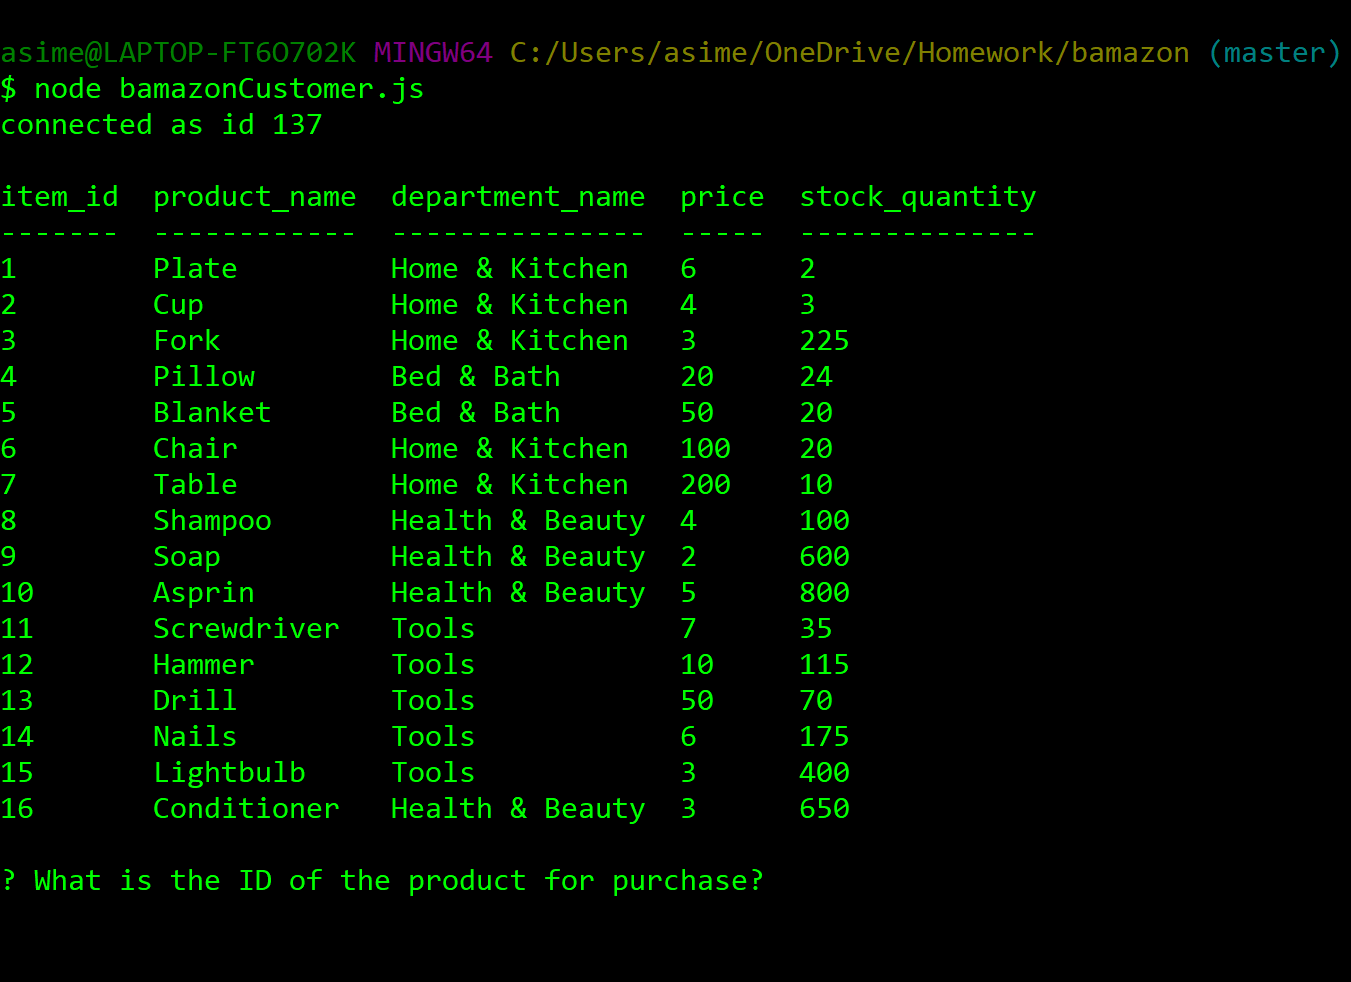
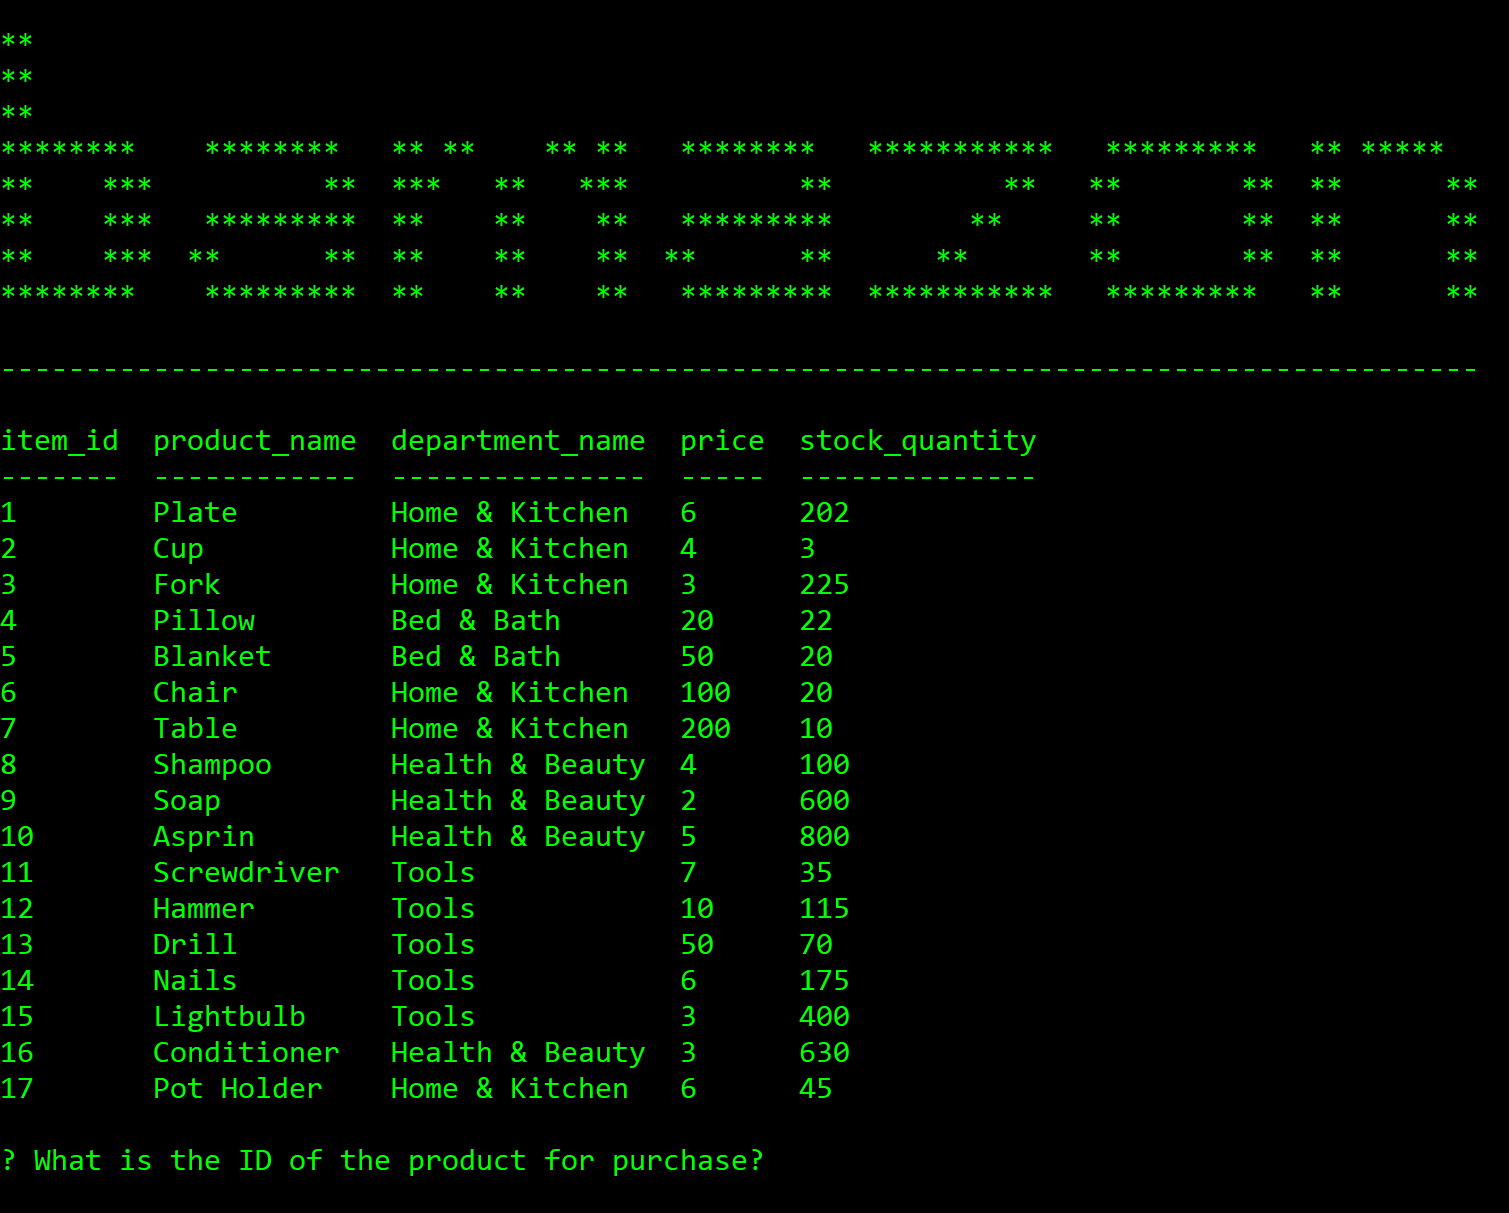
markdown

diff --git a/bamazonCustomer.js b/bamazonCustomer.js
@@ -16,10 +16,31 @@ connection.connect(function(error) {
     catalog();
 });
 
+// console.log("**                                                                                      ");
+// console.log("**                                                                                      ");
+// console.log("**                                                                                      ");
+// console.log("********    ********   ** **    ** **   ********   ***********   *********   ** *****   ");
+// console.log("**    ***          **  ***   **   ***          **          **   **       **  **      ** ");
+// console.log("**    ***   *********  **    **    **   *********        **     **       **  **      ** ");
+// console.log("**    ***  **      **  **    **    **  **      **      **       **       **  **      ** ");
+// console.log("********    *********  **    **    **   *********  ***********   *********   **      ** ");
+
+
+
+
 //First display all of the items for sale
 function catalog() {
     connection.query("SELECT * FROM products", function(error, results) {
         if (error) throw error;
+        console.log("**                                                                                      ");
+        console.log("**                                                                                      ");
+        console.log("**                                                                                      ");
+        console.log("********    ********   ** **    ** **   ********   ***********   *********   ** *****   ");
+        console.log("**    ***          **  ***   **   ***          **          **   **       **  **      ** ");
+        console.log("**    ***   *********  **    **    **   *********        **     **       **  **      ** ");
+        console.log("**    ***  **      **  **    **    **  **      **      **       **       **  **      ** ");
+        console.log("********    *********  **    **    **   *********  ***********   *********   **      **\n");
+        console.log("---------------------------------------------------------------------------------------\n")
         console.table(results);
         userInput(results);
     });
